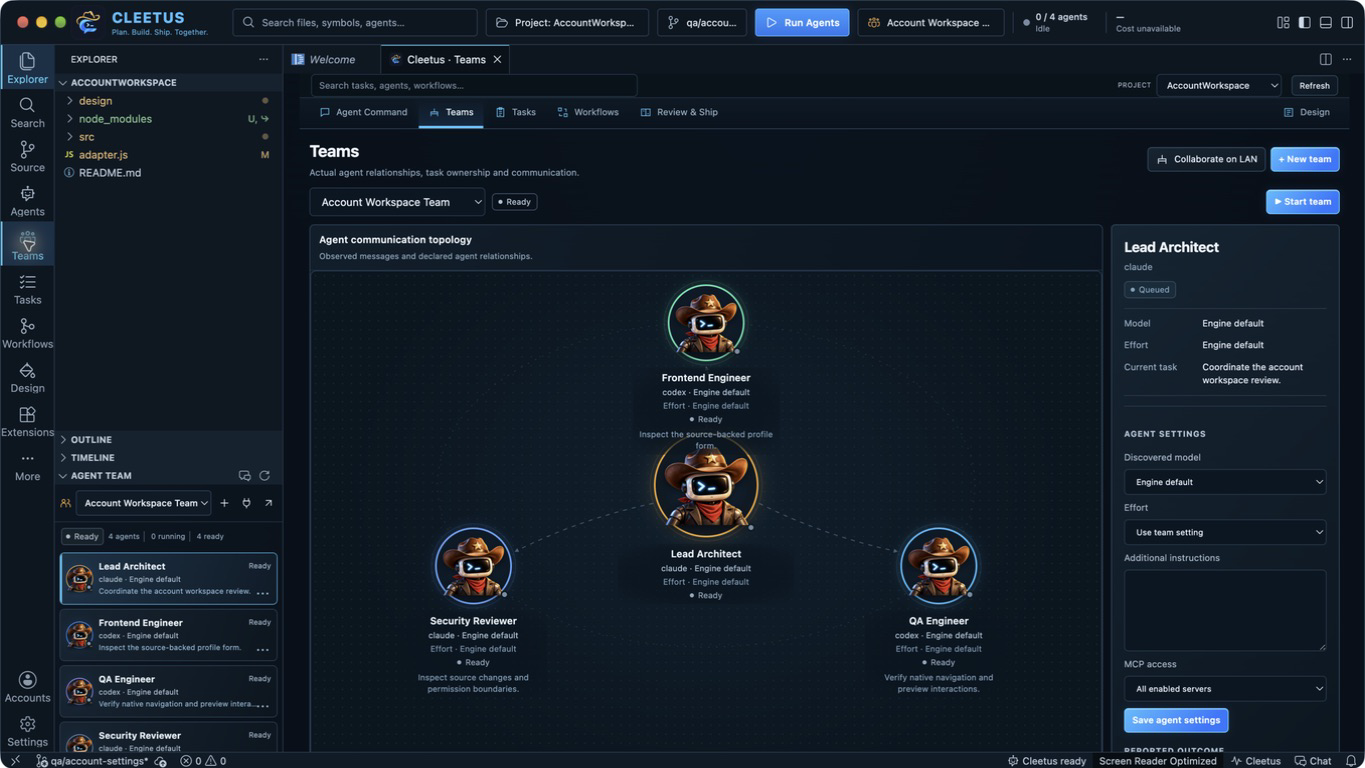
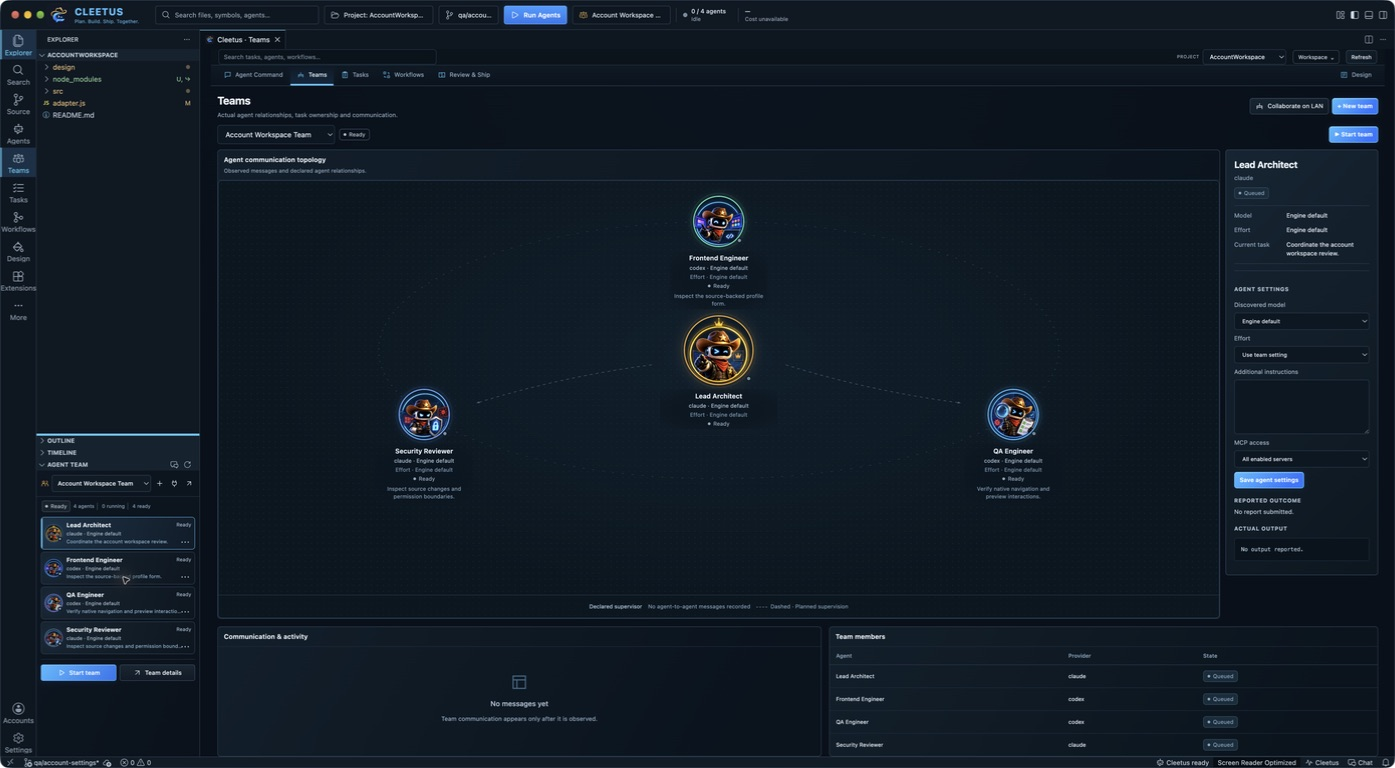
Update Cleetus public documentation

diff --git a/docs/IDE.md b/docs/IDE.md
@@ -4,16 +4,16 @@ Cleetus IDE puts a Code - OSS editor, agents and a source-linked Design studio i
 
 | Product | Availability |
 | --- | --- |
-| **VS Code extension** | Public stable **1.11.2**. [Install and update](INSTALL.md). |
-| **IDE 0.1.0-dev.3** | Local development app built from pinned official Code - OSS source. Unsigned and unnotarized; no signed public native installer is available. |
+| **VS Code extension** | [Latest public stable release](https://github.com/SnowBiz/cleetus-releases/releases/latest). [Install and update](INSTALL.md). |
+| **IDE 0.1.0-dev.4** | Local development app built from pinned official Code - OSS source. Unsigned and unnotarized; no signed public native installer is available. |
 
-The images below are actual native dev.3 captures of a disposable **AccountWorkspace** project. Its four team members are ready and unstarted, tasks are pending, Review shows a real local Git edit, and Design renders a real local component. No providers were started for these captures. They demonstrate the interface and local data, not live account execution, completed customer work or pairing between two physical computers.
+The images below are actual native captures of a disposable **AccountWorkspace** project. The Teams image uses dev.4 with role-specific portraits; the remaining images use dev.3. Its four team members are ready and unstarted, tasks are pending, Review shows a real local Git edit, and Design renders a real local component. No providers were started for these captures. They demonstrate the interface and local data, not live account execution, completed customer work or pairing between two physical computers.
 
 ## Open the source and preview workspace
 
 ![Native editor with source, live preview and agent docks](screenshots/ide-native-editor.png)
 
-Open a project folder, then run **Cleetus: Open Development Workspace**. Explorer and the compact Agent Team dock sit on the left; the native source editor and registered live preview share the center; Agent Command stays on the right. The branded command bar and labeled action rail provide access to the editor, Agent Command, Teams, Tasks, Workflows, Review and Design. **More** retains other editor views, including debugging.
+Open a project folder, then run **Cleetus: Open Development Workspace**. Explorer and the compact Agent Team dock sit on the left; the native source editor and registered live preview share the center; Agent Command stays on the right. The branded command bar and labeled action rail provide access to the editor, Agent Command, Teams, Tasks, Workflows, Review and Design. **More** retains other editor views, including debugging. The native preview includes the pinned open-source JavaScript/Node debugger: set a source breakpoint, choose a Node launch configuration in Run and Debug, and inspect variables, stacks and expressions. Other languages require their compatible debug extensions.
 
 The workflow strip above the editor uses actual team members, tasks or workflow steps. Select a stage to inspect that recorded item. Existing editor tabs, split resizing, terminal, source control and compatible language extensions remain available.
 

diff --git a/docs/TEAMS.md b/docs/TEAMS.md
@@ -2,7 +2,7 @@
 
 Prebuilt teams give a shared goal to agents with defined roles, detailed system prompts, and an execution plan. They use the same Claude/Codex engines as ordinary conversations. Choose a template in **Workflows → Team templates**, inspect **View layout**, and choose **Create team** when it fits your task.
 
-In native IDE **0.1.0-dev.3**, use the **Teams** action on the native rail, then **+ New team**, or run **Cleetus: Open Studio**. Choose the same template, review its detailed member instructions and discovered model/effort choices, create it, then explicitly **Start team**. Creating a team or opening a Design draft does not start agents. See [IDE availability and Studio](IDE.md).
+In native IDE **0.1.0-dev.4**, use the **Teams** action on the native rail, then **+ New team**, or run **Cleetus: Open Studio**. Choose the same template, review its detailed member instructions and discovered model/effort choices, create it, then explicitly **Start team**. Creating a team or opening a Design draft does not start agents. See [IDE availability and Studio](IDE.md).
 
 ![Current workflow and team-template catalog](screenshots/workflows.png)
 
@@ -37,6 +37,12 @@ These are starting roles, not guaranteed outcomes or fixed vendor/model requirem
 ![Current extraction team setup; all specialist prompts remain editable](screenshots/extraction-team.png)
 
 Agent details in a template layout let you inspect and save its model, effort, system prompt, and MCP settings. Ready-team agent settings can also be edited before launch; started agents cannot be reconfigured through that pre-start editor. Refresh/reopen when another window has changed the saved settings.
+
+## Recognize agent specialties
+
+Native agent portraits identify thirteen specialties: architect, tech lead, planner, implementer, frontend, backend, DevOps, security, design, data, support, tester and reviewer. Cleetus resolves the portrait from the agent’s declared role; an unrecognized role uses the standard Cleetus logo. The same role keeps its portrait across team cards, messages, topology views and the native agent list.
+
+Portraits describe specialties, not authority or progress. The separate engine, model, effort and status labels show the agent’s actual configuration and recorded state. Change its instructions and tool assignments through agent settings; changing a role label alone does not change its permissions.
 
 ## Understand the execution mode
 

diff --git a/README.md b/README.md
@@ -10,8 +10,8 @@ This is the public download and documentation home for Cleetus. Development sour
 
 | Product | Availability |
 | --- | --- |
-| **Cleetus VS Code extension** | Stable **1.11.2** VSIX for ordinary VS Code. |
-| **Cleetus IDE 0.1.0-dev.3** | Unreleased local, unsigned and unnotarized development app built from official Code - OSS source. A signed public IDE installer is not available yet. |
+| **Cleetus VS Code extension** | [Latest stable VSIX](https://github.com/SnowBiz/cleetus-releases/releases/latest) for ordinary VS Code. |
+| **Cleetus IDE 0.1.0-dev.4** | Unreleased local, unsigned and unnotarized development app built from official Code - OSS source. A signed public IDE installer is not available yet. |
 
 [Cleetus IDE and Studio](docs/IDE.md) covers its compact source/preview editor, central Agent Command, orbital team view, tasks, workflow canvas, split/unified review, and live Design component controls. The existing extension remains maintained and independently distributed.
 
@@ -51,4 +51,4 @@ Apache-licensed Cleetus extension portions retain their accompanying license and
 
 [License details](docs/LICENSES.md) · [Apache-2.0](docs/licenses/Apache-2.0.txt) · [Future IDE preview terms](docs/licenses/IDE-PREVIEW-LICENSE.txt)
 
-The browser developer host is a separate development pathway from the native IDE. Extension screenshots use illustrative data. The IDE guide includes actual native dev.3 captures of a disposable AccountWorkspace project with four ready, unstarted members and pending tasks, a real local Git diff and a source-rendered component. No provider was started for these captures, and they do not establish live account work or two-computer LAN pairing. Cleetus is independent of Anthropic and OpenAI and uses your own provider accounts.
+The browser developer host is a separate development pathway from the native IDE. Extension screenshots use illustrative data. The IDE guide includes actual native dev.3 captures, with Teams refreshed from dev.4, of a disposable AccountWorkspace project with four ready, unstarted members and pending tasks, a real local Git diff and a source-rendered component. No provider was started for these captures, and they do not establish live account work or two-computer LAN pairing. Cleetus is independent of Anthropic and OpenAI and uses your own provider accounts.

diff --git a/docs/README.md b/docs/README.md
@@ -2,7 +2,7 @@
 
 Cleetus brings Claude and Codex conversations, agent teams, tools, work tracking, and a Design studio into one workspace. Start with installation, then choose the guide for your task.
 
-The public stable product is the **Cleetus VS Code extension 1.11.2**. **Cleetus IDE 0.1.0-dev.3** is an unreleased, unsigned and unnotarized local development build; no signed public IDE installer is available yet. The [IDE and Studio guide](IDE.md) describes that development interface separately.
+The public stable product is the **Cleetus VS Code extension** ([latest stable release](https://github.com/SnowBiz/cleetus-releases/releases/latest)). **Cleetus IDE 0.1.0-dev.4** is an unreleased, unsigned and unnotarized local development build; no signed public IDE installer is available yet. The [IDE and Studio guide](IDE.md) describes that development interface separately.
 
 | Guide | What it covers |
 | --- | --- |
@@ -22,4 +22,4 @@ The public stable product is the **Cleetus VS Code extension 1.11.2**. **Cleetus
 
 [Download releases](https://github.com/SnowBiz/cleetus-releases/releases)
 
-The extension screenshots use illustrative local data. The IDE guide shows actual native dev.3 captures from a disposable AccountWorkspace project with ready, unstarted members and pending tasks. Its Git diff and rendered component come from that local project. No provider was started for the captures; they do not establish live account work, customer extraction or two-computer LAN pairing. The Design cowboy banner is promotional artwork. Native previews require your actual Xcode build and Simulator runtime.
+The extension screenshots use illustrative local data. The IDE guide shows actual native dev.3 captures, with Teams refreshed from dev.4, from a disposable AccountWorkspace project with ready, unstarted members and pending tasks. Its Git diff and rendered component come from that local project. No provider was started for the captures; they do not establish live account work, customer extraction or two-computer LAN pairing. The Design cowboy banner is promotional artwork. Native previews require your actual Xcode build and Simulator runtime.

diff --git a/docs/INSTALL.md b/docs/INSTALL.md
@@ -1,6 +1,6 @@
 # Install and update Cleetus
 
-The current public stable release is the **Cleetus VS Code extension 1.11.2**. The instructions below install the extension. **Cleetus IDE 0.1.0-dev.3** is an unreleased, unsigned and unnotarized local development build; a signed public native installer has not been published yet. See [Cleetus IDE and Studio](IDE.md) for its current interface and limitations.
+The public stable product is the **Cleetus VS Code extension**; download its [latest stable release](https://github.com/SnowBiz/cleetus-releases/releases/latest). The instructions below install the extension. **Cleetus IDE 0.1.0-dev.4** is an unreleased, unsigned and unnotarized local development build; a signed public native installer has not been published yet. See [Cleetus IDE and Studio](IDE.md) for its current interface and limitations.
 
 You need VS Code 1.94+, Node.js 22+, npm, and access to the engine you want to use. You may use Claude, Codex, or both. The currently recorded clean-host runtime audit covers macOS ARM64; other supported runtime platforms still need local verification.
 
